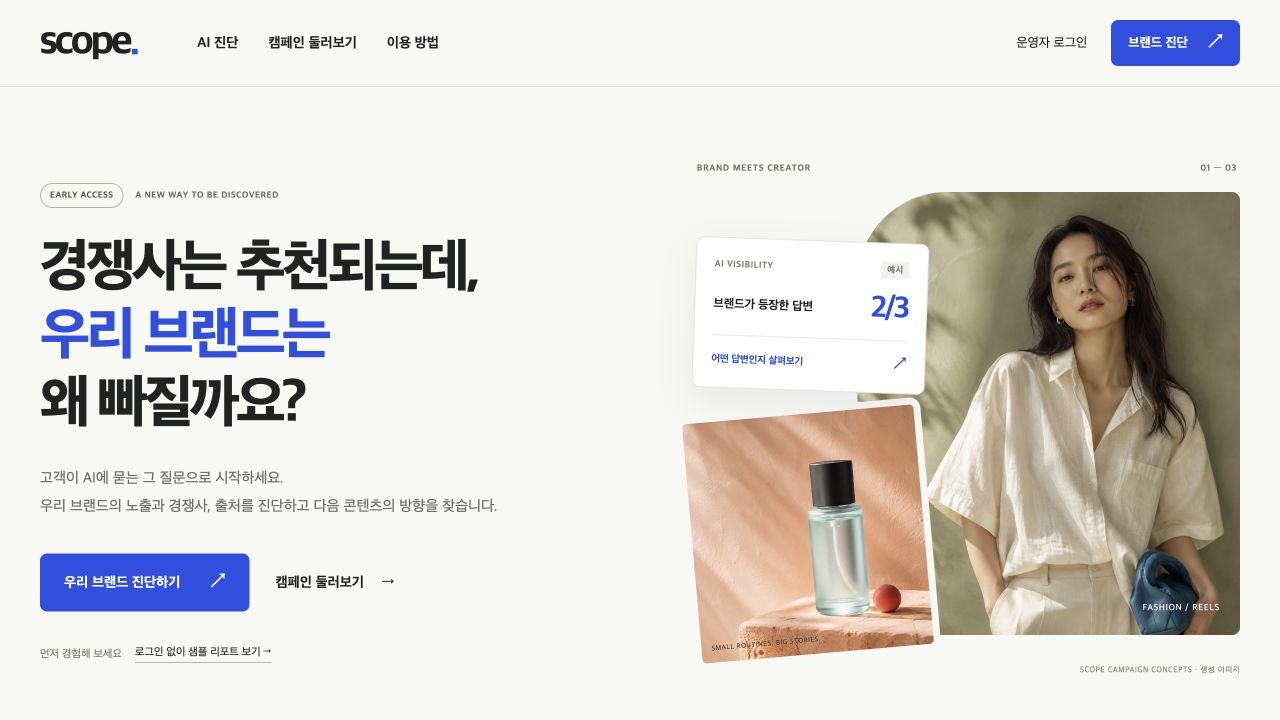
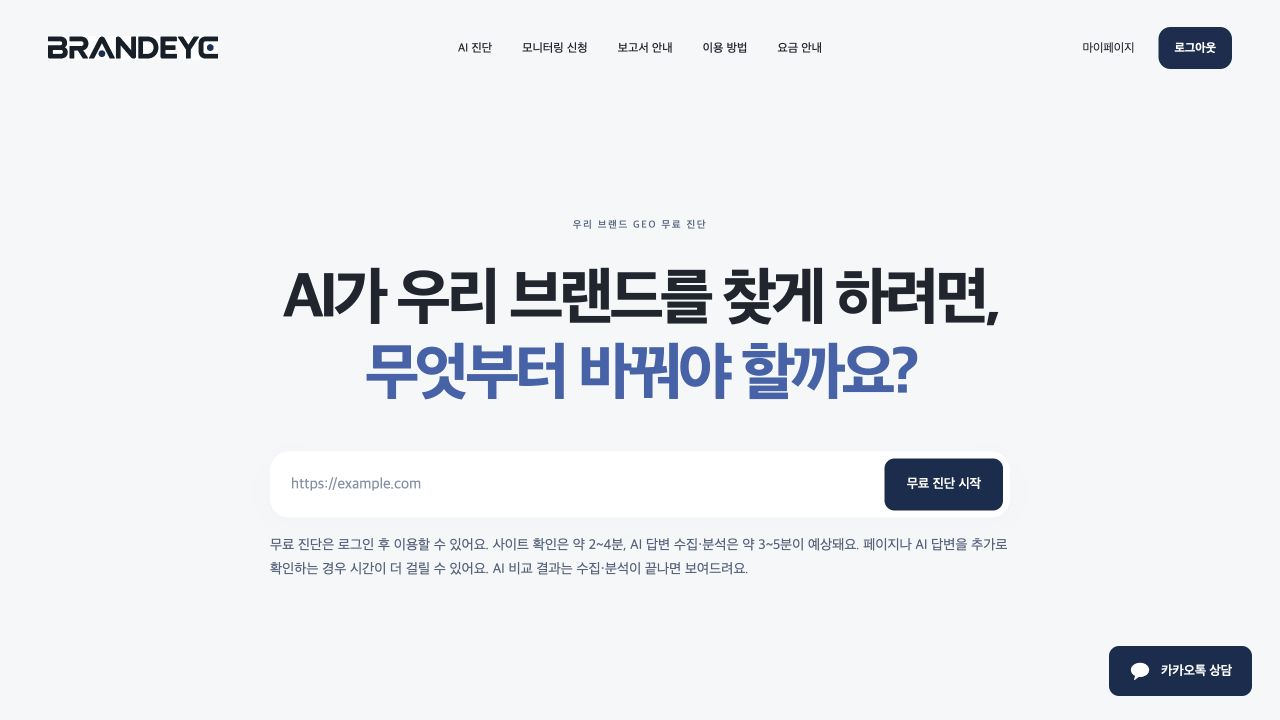
Replace Scope preview with current BrandEye website screenshot

diff --git a/public/projects/SOURCES.md b/public/projects/SOURCES.md
@@ -4,7 +4,7 @@ All projects are explicitly selected by the site owner. No assets from the visua
 
 - `metalook.jpg`: screenshot of the owner's live https://metalook.store, captured through the browser.
 - `semapage.jpg`: screenshot of https://semapage.ai.kr/, the production address confirmed in the owner's `sema-page` repository README; captured 2026-10-09.
-- `brandeye.jpg`: screenshot of https://scope-geo-wrg2e4mj3a-du.a.run.app/, the operating address documented in the owner's `brandeye` repository. The live service currently displays the Scope identity; the portfolio uses the owner's requested BrandEye project name. Captured 2026-10-09.
+- `brandeye.jpg`: screenshot of https://brandeye.ai.kr/, the production domain confirmed by the owner. Captured through the browser on 2026-10-09; replaces the older Scope service screenshot.
 - `/HangulWave_icon_512.png`, `/metalook.png`: existing project logos in this repository.
 - `cosmic-icon.png`: the owner's official app icon from `hadongil19822-blip/cosmic-spell-survivors-support/assets/app-icon.png` on GitHub, read through the GitHub connector.
 
